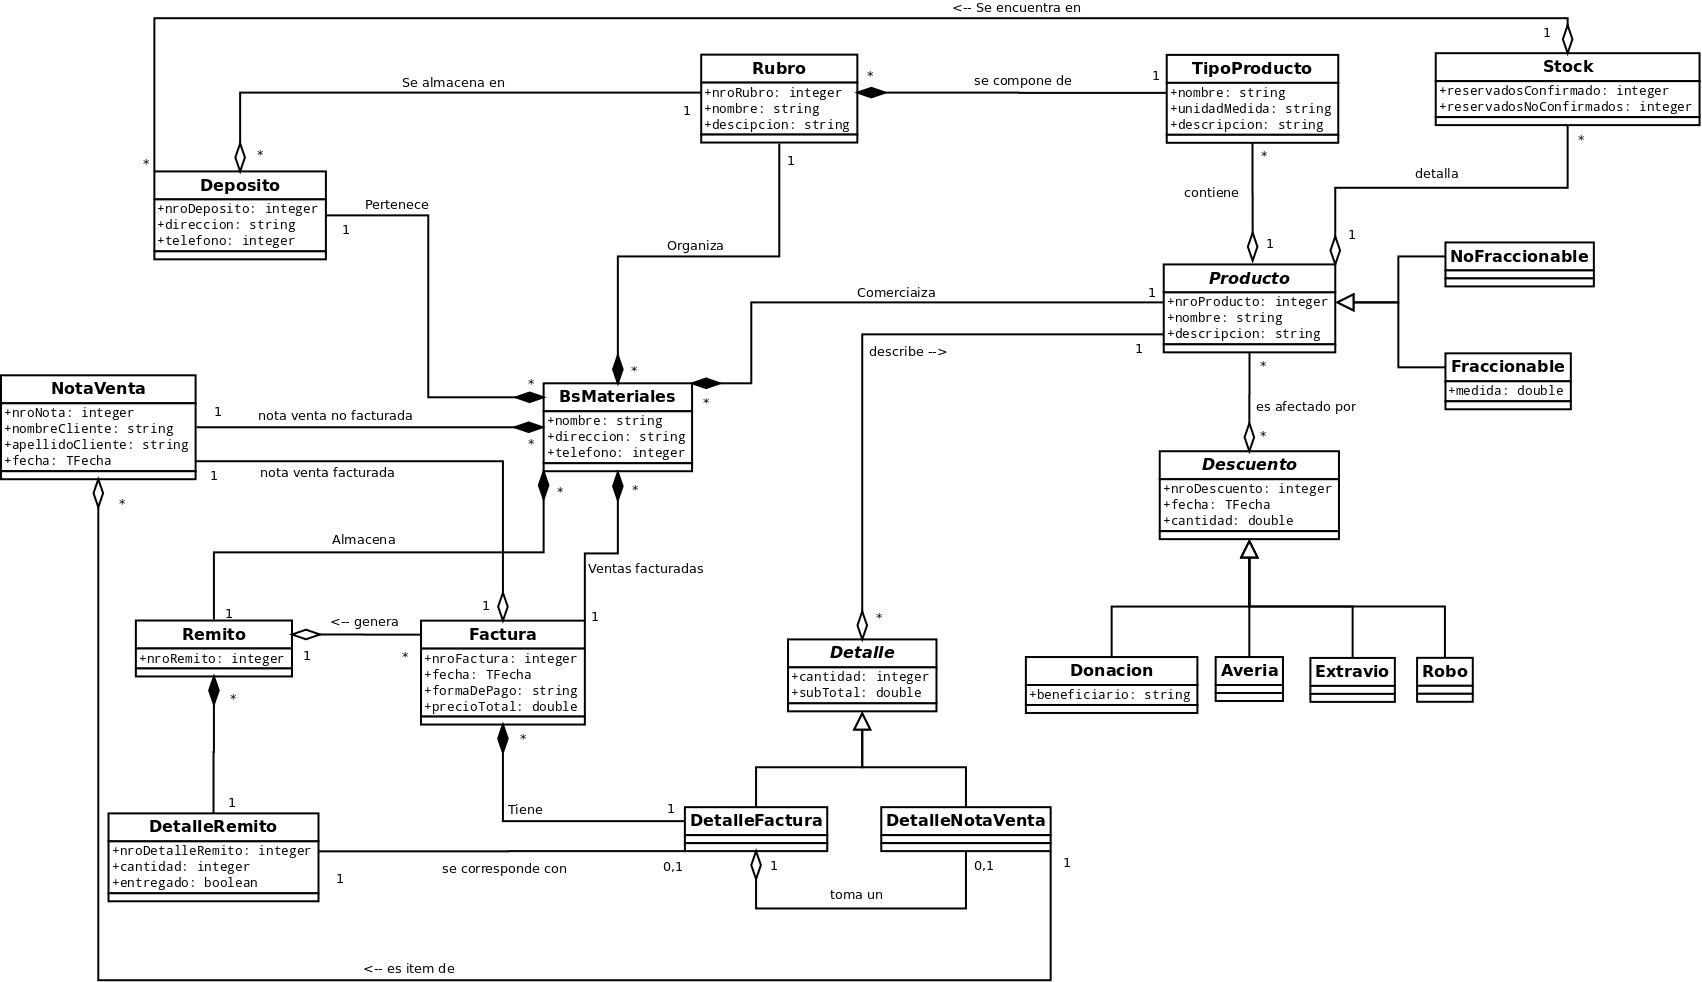
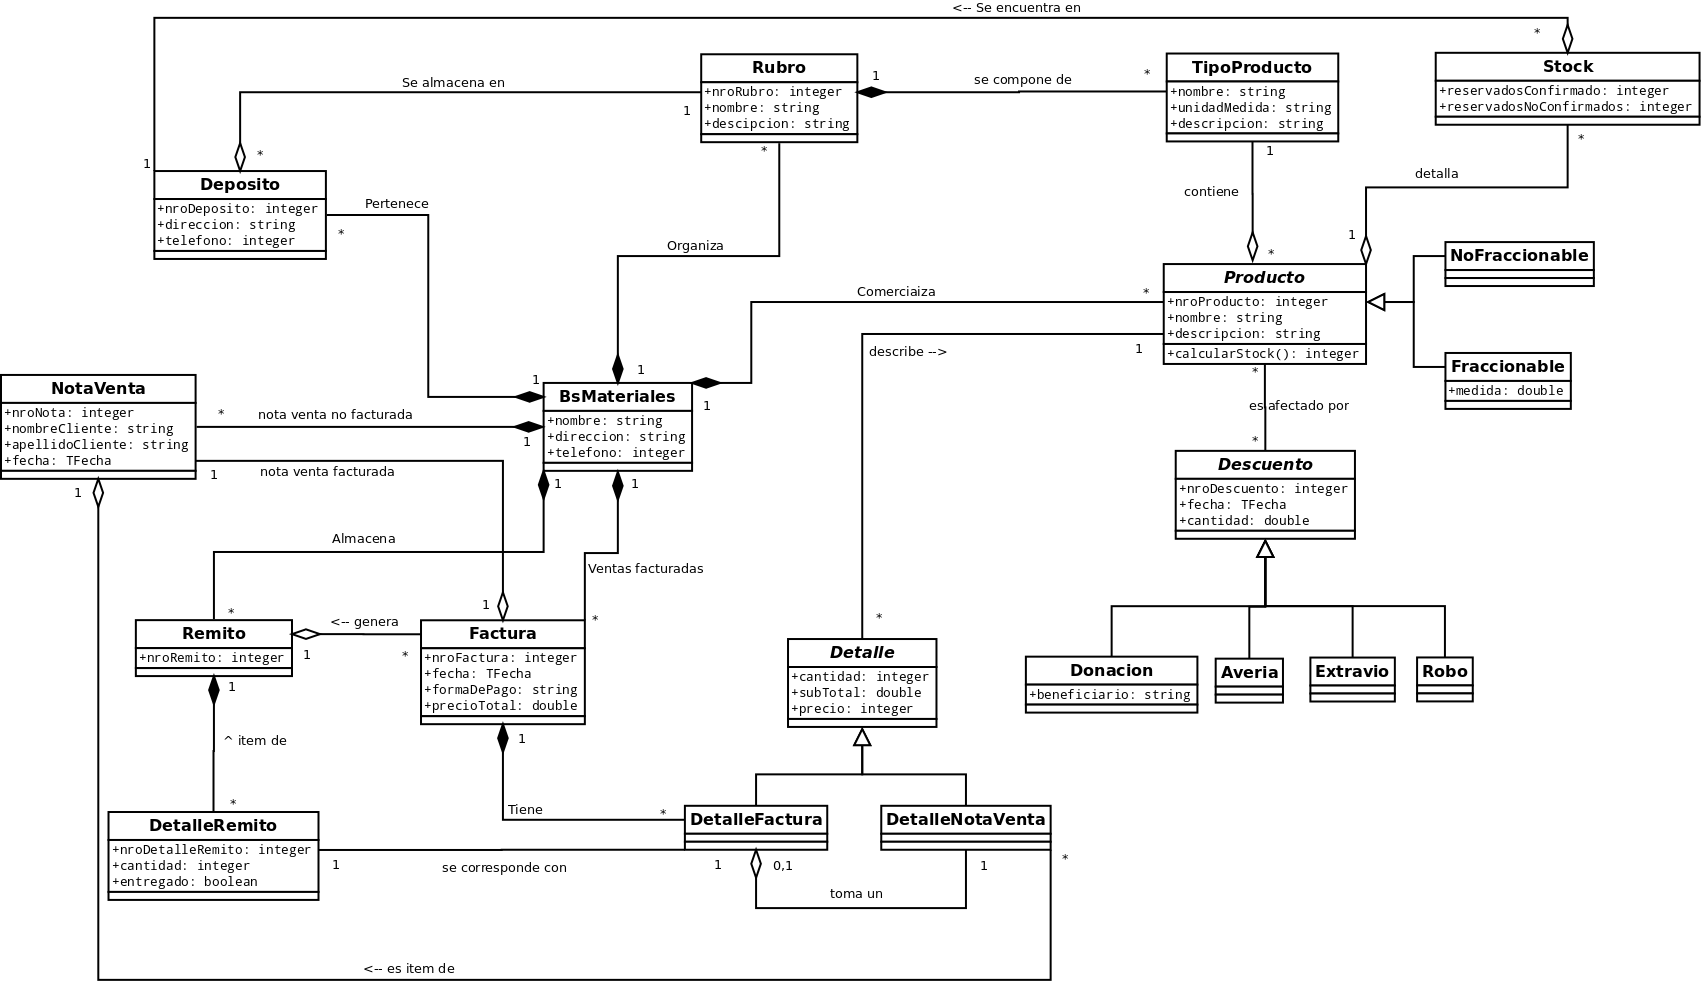
modificacion diagrama de clase y templates

diff --git a/bsMaterialsApp/template/.altaProd.html b/bsMaterialsApp/template/.altaProd.html
@@ -39,7 +39,7 @@
 			<ul>
 			<li><a id="BotonSeleccionado" href="">Alta de Productos</a>
 			</li>
-			<li><a id="efectoBoton" href="Baja Producto.html">Baja de Productos</a>
+			<li><a id="efectoBoton" href="/login/menuProd/bajaProd">Baja de Productos</a>
 			</li>
 			<li><a id="efectoBoton" href="ModProd.html">Modificacion de Productos</a>
 			</li>
@@ -63,10 +63,10 @@
 				<tr>
 				    <td id="fuenteCeldaI">Tipo de Producto </td>
 
-				    <td id="fuenteCeldaD"><select name="calificacion">
+				    <td id="fuenteCeldaD"><select name="tipoProducto">
    
 					  {% for item in tipoProductos %}
-						<option value="{{item.pk}}">{{item.nombre}}</option>
+						<option value="{{item.pk}}">{{item}}</option>
 					  <p>{{item.nombre}}</p>
 					  {% endfor %}
 					    </select>					</td>
@@ -77,7 +77,7 @@
 				</tr>
 
 				<tr>
-				    <td id="fuenteCeldaI">Stock </td>
+				    <td id="fuenteCeldaI">Stock Total </td>
 				    <td id="fuenteCeldaD"><input type="text" name="stock">			</td>
 				</tr>
 

diff --git a/bsMaterialsApp/template/altaProd.html b/bsMaterialsApp/template/altaProd.html
@@ -39,9 +39,9 @@
 			<ul>
 			<li><a id="BotonSeleccionado" href="">Alta de Productos</a>
 			</li>
-			<li><a id="efectoBoton" href="Baja Producto.html">Baja de Productos</a>
+			<li><a id="efectoBoton" href="/login/menuProd/bajaProd">Baja de Productos</a>
 			</li>
-			<li><a id="efectoBoton" href="ModProd.html">Modificacion de Productos</a>
+			<li><a id="efectoBoton" href="/login/menuProd/modificacionProd">Modificacion de Productos</a>
 			</li>
 			<li><a id="efectoBoton" href="Gestion de Productos.html">Volver a Gestion de Productos</a>
 			</li>

diff --git a/bsMaterialsApp/template/ventaProd.html b/bsMaterialsApp/template/ventaProd.html
@@ -346,7 +346,7 @@
 <tr>
 	<td colspan="3">
 
-		<input type="button" value="Generar Factura" name="vender">
+		<input type="button" value="Generar Nota de Venta" name="vender">
 
 	</td>
 

diff --git a/bsMaterialsApp/views.py b/bsMaterialsApp/views.py
@@ -19,7 +19,7 @@ def login_user(request):
             if user.is_active:
                 login(request, user)
                 state = "You're successfully logged in!"
-                return render_to_response('menuGerente.html',{'usuario':username}, context_instance=RequestContext(request))
+                return render_to_response('menuGerente.html',{'usuario':username,'contrasenia':password}, context_instance=RequestContext(request))
             else:
                 state = "Your account is not active, please contact the site admin."
         else:
